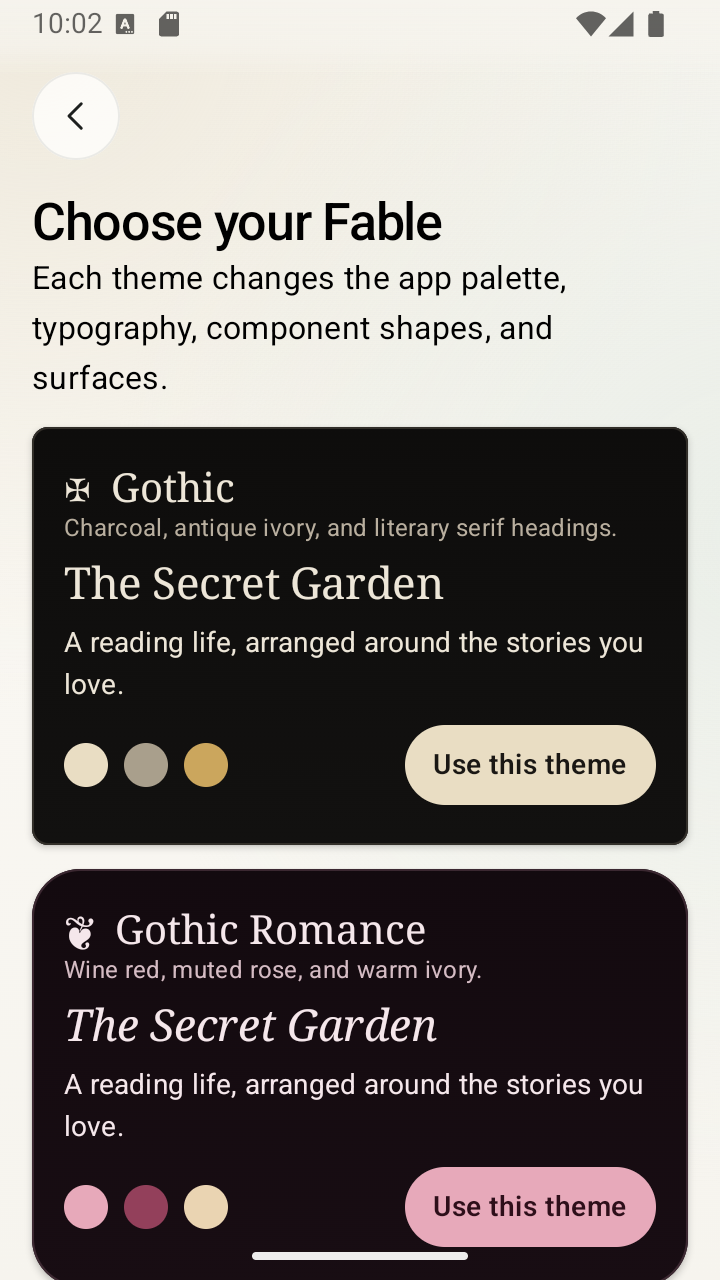
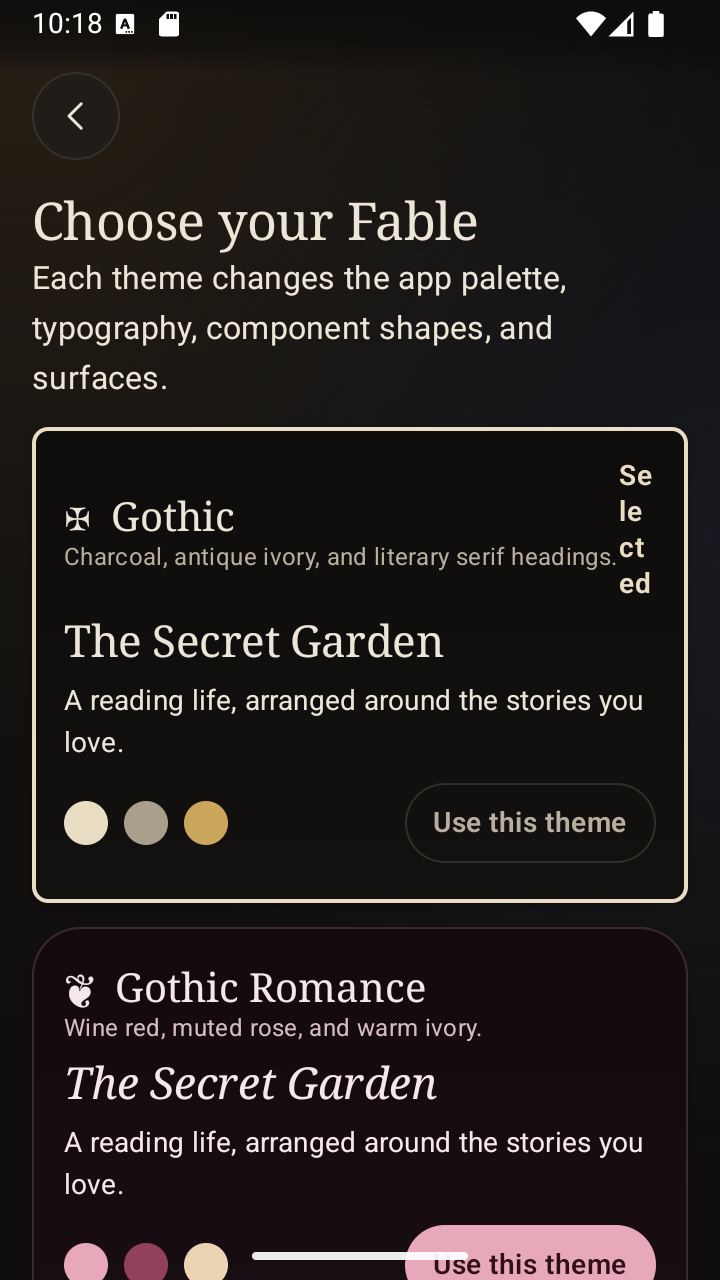
Make default text colour follow the theme
Unstyled text (for example the theme screen's heading) fell back to black and
was unreadable on the dark Gothic themes. The app root now sets the content
colour to the theme's on-background colour. Adds Gothic home screenshots.

diff --git a/app/src/main/java/com/fable/app/presentation/FableApp.kt b/app/src/main/java/com/fable/app/presentation/FableApp.kt
@@ -110,6 +110,8 @@ fun FableApp(dependencies: FableDependencies) {
     }
 
     FableTheme(themeState.selectedTheme) {
+        // Default text colour follows the theme, so unstyled text stays readable on dark themes.
+        CompositionLocalProvider(androidx.compose.material3.LocalContentColor provides androidx.compose.material3.MaterialTheme.colorScheme.onBackground) {
         Box(Modifier.fillMaxSize().fableAtmosphere()) {
             AnimatedContent(
                 targetState = stage to session,
@@ -173,6 +175,7 @@ fun FableApp(dependencies: FableDependencies) {
             // Soft scrim so scrolling content never collides with the status-bar icons. The
             // signed-in app draws its own, because some of its screens are full-bleed heroes.
             if (stage != Stage.Splash && stage != Stage.Ready) StatusBarScrim(Modifier.align(Alignment.TopCenter))
+        }
         }
     }
 }
